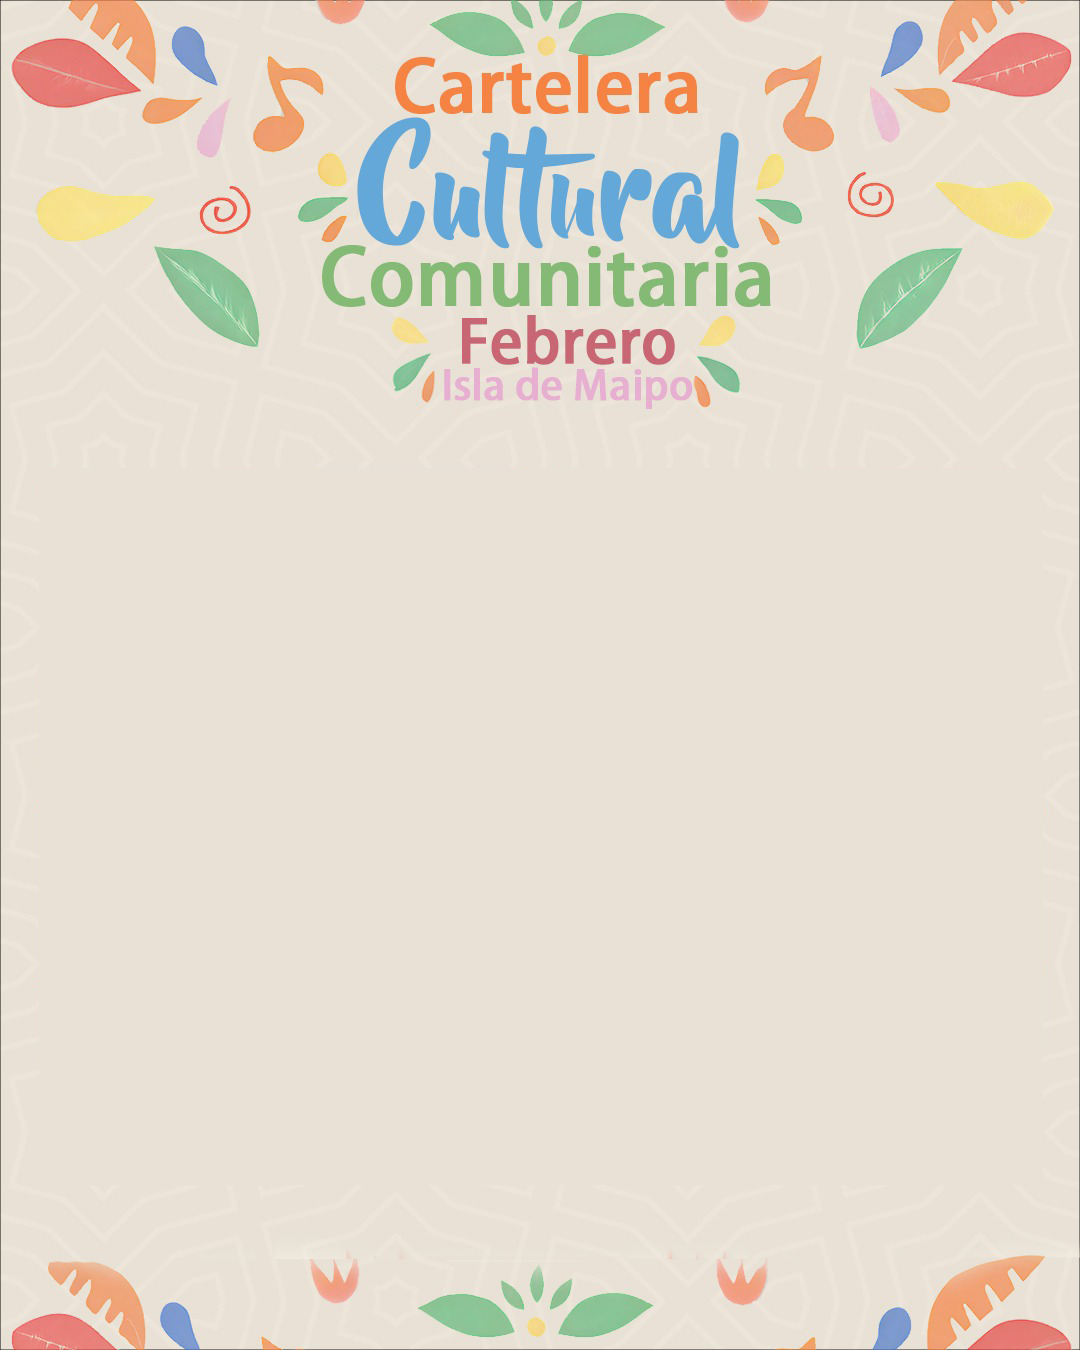
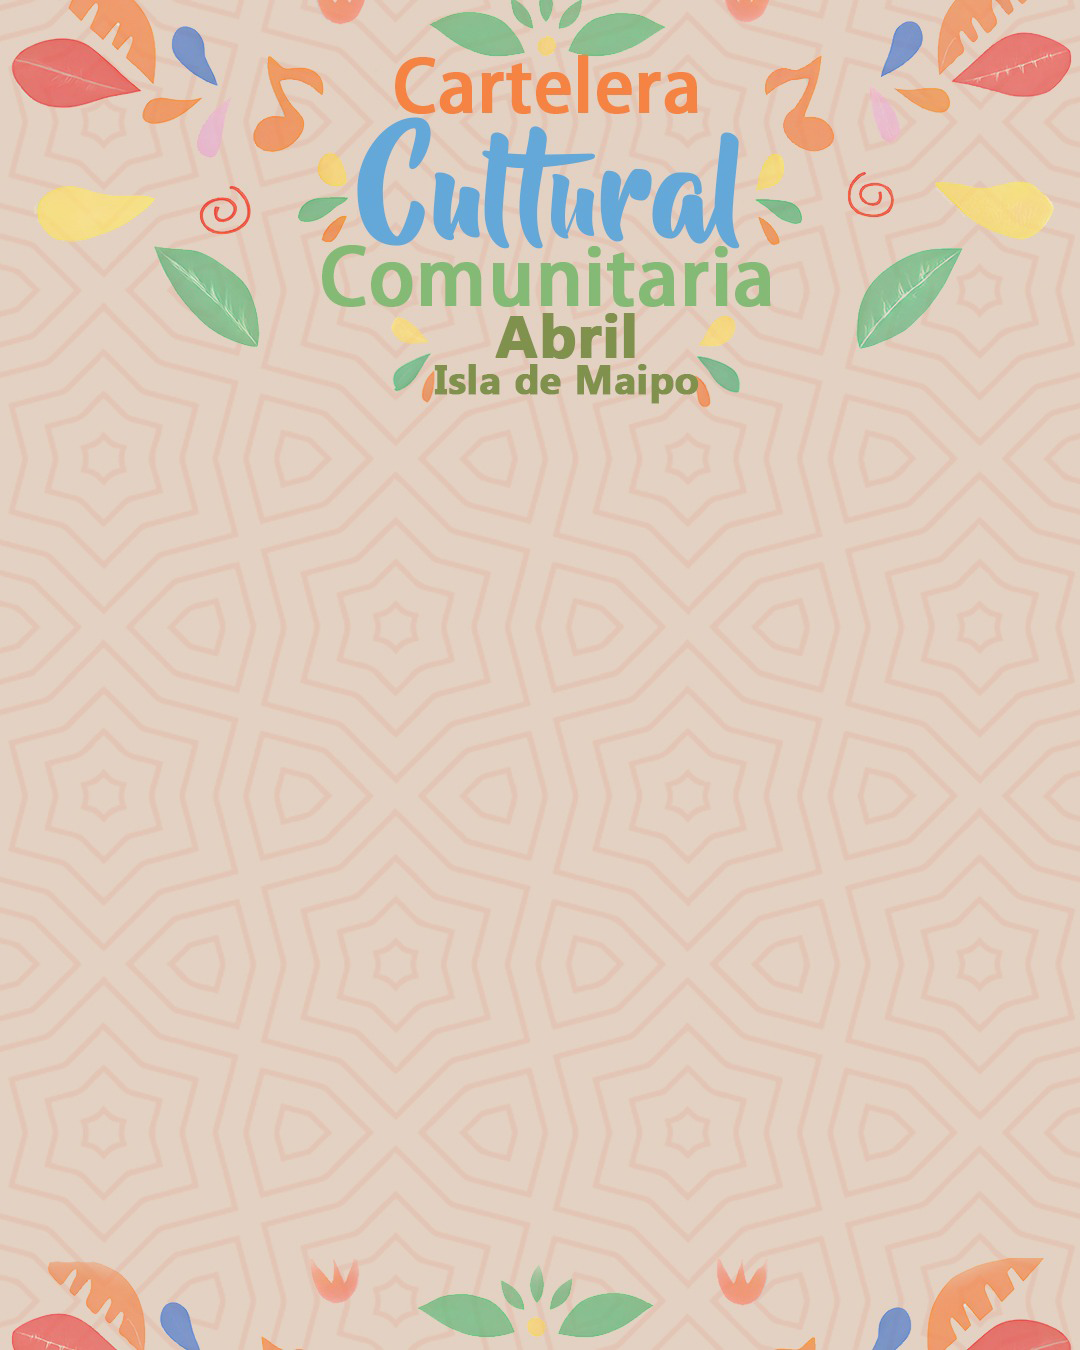
Actualiza el formulario de selección de organización y mejora la funcionalidad de botones de color

Changed region(s): [[0.0, 0.0, 1.0, 1.0], [0.0, 0.0, 0.0917, 0.0311]]

diff --git a/estilo.js b/estilo.js
@@ -11,8 +11,17 @@ const colores = [
 
 let colorSeleccionado = colores[0].bg;
 let recintoSeleccionado = '';
+let colorRecinto = '';
+let esOtraOrganizacion = false;
 
-// Renderizar botones de color
+// Función para habilitar/deshabilitar botones de color
+function habilitarColores(habilitado) {
+  document.querySelectorAll('.color-btn').forEach(btn => {
+    btn.style.opacity = habilitado ? '1' : '0.5';
+    btn.style.cursor = habilitado ? 'pointer' : 'not-allowed';
+    btn.style.pointerEvents = habilitado ? 'auto' : 'none';
+  });
+}
 const colorRow = document.getElementById('color-row');
 colores.forEach((c, i) => {
   const btn = document.createElement('button');
@@ -27,9 +36,22 @@ colores.forEach((c, i) => {
   colorRow.appendChild(btn);
 });
 
+// Deshabilitar botones de color inicialmente
+habilitarColores(false);
+
 function agregarEvento() {
   const fecha = document.getElementById('inp-fecha').value.trim();
-  const recinto = recintoSeleccionado;
+  let recinto = recintoSeleccionado;
+
+  // Si es "Otra organización", obtener el valor del input personalizado
+  if (esOtraOrganizacion) {
+    recinto = document.getElementById('inp-otra-organizacion').value.trim();
+    if (!recinto) {
+      alert('Por favor especifica el nombre de la organización.');
+      return;
+    }
+  }
+
   const direccion = document.getElementById('inp-direccion').value.trim();
   const descripcion = document.getElementById('inp-descripcion').value.trim();
 
@@ -47,19 +69,21 @@ function agregarEvento() {
   const tarjeta = document.createElement('div');
   tarjeta.className = 'tarjeta';
 
+  // Priorizar el color del recinto si está seleccionado
+  const colorFinal = colorRecinto ? colorRecinto : colorSeleccionado;
+
   tarjeta.innerHTML = `
       <button class="btn-eliminar" onclick="this.closest('.tarjeta').remove()" title="Eliminar">✕</button>
-      <div class="tarjeta-header" style="background: ${colorSeleccionado}">
+      <div class="tarjeta-header" style="background: ${colorFinal}">
         <div class="tarjeta-fecha">${fecha || '—'}</div>
         <div class="tarjeta-recinto">
-          <span class="tarjeta-icon"><svg xmlns="http://www.w3.org/2000/svg" width="32" height="32" fill="currentColor" class="bi bi-geo-alt-fill" viewBox="0 0 16 16">
+          <span class="tarjeta-icon"><svg xmlns="http://www.w3.org/2000/svg" width="16" height="16" fill="currentColor" class="bi bi-geo-alt-fill" viewBox="0 0 16 16">
   <path d="M8 16s6-5.686 6-10A6 6 0 0 0 2 6c0 4.314 6 10 6 10m0-7a3 3 0 1 1 0-6 3 3 0 0 1 0 6"/>
 </svg></span>${recinto || '—'}
-          
         </div>
+        ${direccion ? `<div class="tarjeta-direccion">${direccion}</div>` : ''}
       </div>
       <div class="tarjeta-body">
-        ${direccion ? `<div class="tarjeta-direccion">${direccion}</div>` : ''}
         <div class="tarjeta-descripcion">${descripcion || ''}</div>
       </div>
     `;
@@ -69,9 +93,19 @@ function agregarEvento() {
   // Limpiar formulario
   document.getElementById('inp-fecha').value = '';
   recintoSeleccionado = '';
+  colorRecinto = '';
+  esOtraOrganizacion = false;
   document.querySelector('.dropdown-toggle').textContent = 'Selecciona una organización';
+  document.getElementById('inp-otra-organizacion').value = '';
+  document.getElementById('grupo-otra-organizacion').style.display = 'none';
   document.getElementById('inp-direccion').value = '';
   document.getElementById('inp-descripcion').value = '';
+  // Restaurar el primer botón de color como seleccionado y deshabilitar
+  document.querySelectorAll('.color-btn').forEach((btn, i) => {
+    if (i === 0) btn.classList.add('selected');
+  });
+  habilitarColores(false);
+  colorSeleccionado = colores[0].bg;
   document.getElementById('inp-fecha').focus();
 }
 
@@ -86,7 +120,31 @@ function agregarEvento() {
 document.querySelectorAll('.dropdown-item').forEach(item => {
   item.addEventListener('click', e => {
     e.preventDefault();
-    recintoSeleccionado = item.getAttribute('data-value') || item.textContent;
+    const valor = item.getAttribute('data-value') || item.textContent;
+
+    recintoSeleccionado = valor;
+
+    // Detectar si es "Otra organización"
+    if (valor === 'Otra organización') {
+      esOtraOrganizacion = true;
+      colorRecinto = ''; // Sin color automático
+      // Mostrar el input y habilitar colores
+      document.getElementById('grupo-otra-organizacion').style.display = 'block';
+      document.getElementById('inp-otra-organizacion').focus();
+      habilitarColores(true);
+      // Desseleccionar todos los botones para que el usuario elija
+      document.querySelectorAll('.color-btn').forEach(btn => btn.classList.remove('selected'));
+    } else {
+      esOtraOrganizacion = false;
+      colorRecinto = item.getAttribute('data-color') || '#2e4057';
+      // Ocultar el input y deshabilitar colores
+      document.getElementById('grupo-otra-organizacion').style.display = 'none';
+      document.getElementById('inp-otra-organizacion').value = '';
+      habilitarColores(false);
+      // Desseleccionar todos los botones de color
+      document.querySelectorAll('.color-btn').forEach(btn => btn.classList.remove('selected'));
+    }
+
     // Actualizar el texto del botón del dropdown
     document.querySelector('.dropdown-toggle').textContent = recintoSeleccionado;
   });

diff --git a/cartelera_cultural_builder.html b/cartelera_cultural_builder.html
@@ -29,15 +29,29 @@
             Selecciona una organización
           </button>
           <ul class="dropdown-menu">
-            <li><a class="dropdown-item" href="#" data-value="Bioescuela Aula Viva">Bioescuela Aula Viva</a></li>
-            <li><a class="dropdown-item" href="#" data-value="Centro Cultural">Centro Cultural</a></li>
-            <li><a class="dropdown-item" href="#" data-value="Espacio Comunitario">Espacio Comunitario</a></li>
+            <li><a class="dropdown-item" href="#" data-value="Bioescuela Aula Viva" data-color="#ab7fbe">Bioescuela Aula
+                Viva</a></li>
+            <li><a class="dropdown-item" href="#" data-value="Centro de Movimientos Artisticos"
+                data-color="#a24f5f">Centro de Movimientos Artisticos</a></li>
+            <li><a class="dropdown-item" href="#" data-value="Museo Parroquial Isla de Maipo" data-color="#736051">Museo
+                Parroquial Isla de Maipo</a></li>
+            <li><a class="dropdown-item" href="#" data-value="Agrupacion Nueva Juventud" data-color="#688b53">Agrupacion
+                Nueva Juventud</a></li>
+            <li><a class="dropdown-item" href="#" data-value="Radio Origen" data-color="#c6875b">Radio Origen</a></li>
+            <li><a class="dropdown-item" href="#" data-value="Corporacion Memoria Lonquen"
+                data-color="#36489e">Corporacion Memoria Lonquen</a></li>
             <li>
               <hr class="dropdown-divider">
             </li>
-            <li><a class="dropdown-item" href="#" data-value="Otra organización">Otra organización</a></li>
+            <li><a class="dropdown-item" href="#" data-value="Otra organización" data-color="#2e4057">Otra
+                organización</a></li>
           </ul>
         </div>
+      </div>
+
+      <div class="form-group full" id="grupo-otra-organizacion" style="display: none;">
+        <label>Nombre de la organización</label>
+        <input type="text" id="inp-otra-organizacion" placeholder="Escribe el nombre de la organización...">
       </div>
 
       <div class="form-group full">

diff --git a/style.css b/style.css
@@ -231,7 +231,7 @@ textarea {
 }
 
 .tarjeta-header {
-    padding: 6px 8px 4px;
+    padding: 6px 8px;
     color: white;
 }
 
@@ -259,17 +259,16 @@ textarea {
 
 .tarjeta-body {
     background: white;
-    padding: 6px 8px;
+    padding: 6px 8px 8px;
 }
 
 .tarjeta-direccion {
     font-size: 0.55rem;
-    color: #888;
-    font-weight: 700;
-    margin-bottom: 4px;
-    border-bottom: 1px solid #f0e8ff;
-    padding-bottom: 4px;
-    display: none;
+    color: rgba(255, 255, 255, 0.85);
+    font-weight: 600;
+    margin-top: 2px;
+    opacity: 0.9;
+    line-height: 1.3;
 }
 
 .tarjeta-descripcion {
